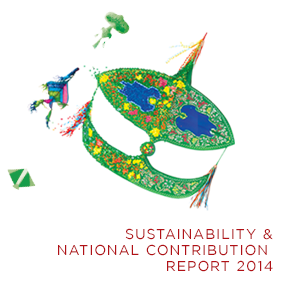
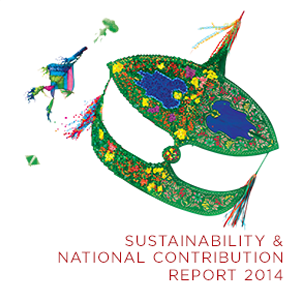
adding new animation to landing page of sr5

diff --git a/sr/beyond_short_term_profit/index.php b/sr/beyond_short_term_profit/index.php
@@ -18,7 +18,7 @@
 <div class="topcontainer">
 	<div class="header">
     <div class="dzsparallaxer auto-init  use-loading" style="height: 350px;">
-        <div class="divimage dzsparallaxer--target " data-src="../assets/img/c4/bstp_0.png" style="height: 700px;">
+        <div class="divimage" data-src="../assets/img/c4/bstp_0.png" style="height: 700px; background-image: url(http://localhost/axiata-ar-2014/sr/assets/img/c4/bstp_0.png);margin-top: -220px;">
         </div>
 
         <div class="big-text title"  data-sr="enter left, move 50px, no reset">
